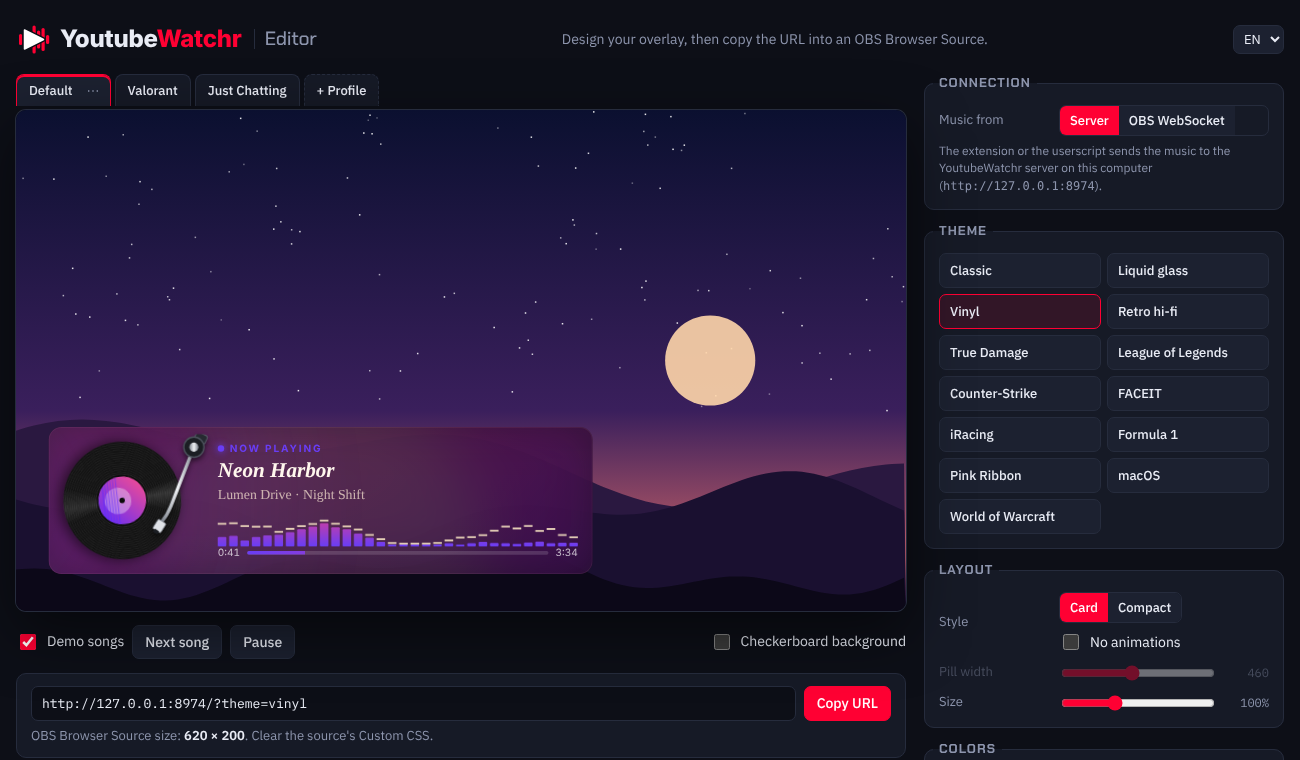
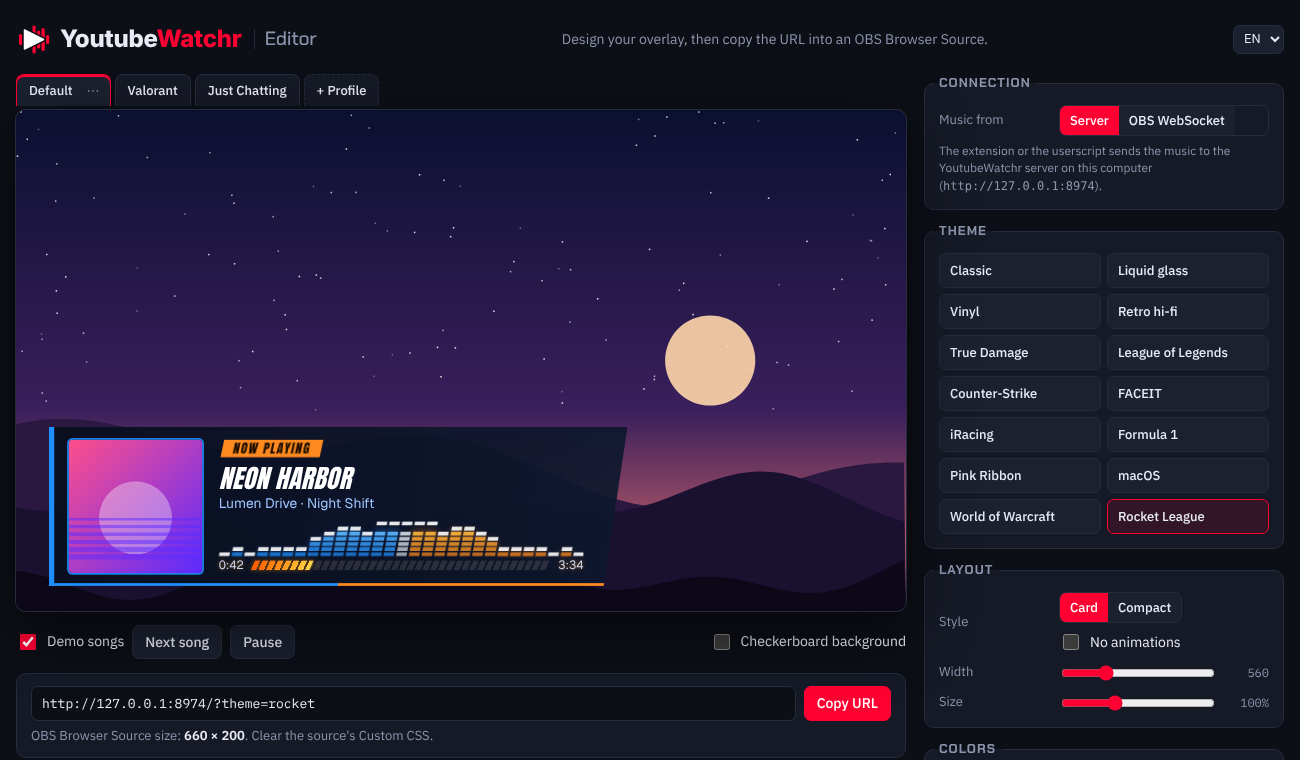
Big card width, no shadow without card, cover shrinks back; new README media
- width now also sets the big card (default 560, FACEIT 420); the editor's
  width slider works for both versions and remembers each value
- card=0: no soft shadow under the cover or the record (it sat as a grey
  smudge on the stream); theme frames and rings stay
- the grown cover shrinks back when the text gets shorter again (watch the
  text elements and font loads, not just #info)
- editor: OBS width for Rocket League is 660 (its slanted end was cut off)
- README: options updated; new themes.gif (all 14 themes, 2.3 MB instead of
  9.4 MB), editor.png and compact.png with the built-in demo song

diff --git a/editor.html b/editor.html
@@ -239,7 +239,7 @@
             <label class="check" style="white-space: nowrap"><input type="checkbox" id="still"> <span data-i18n="still">No animations</span></label>
           </div>
         </div>
-        <div class="row" id="width-row"><span data-i18n="pillWidth">Pill width</span>
+        <div class="row" id="width-row"><span data-i18n="pillWidth">Width</span>
           <div class="inline"><input type="range" id="width" min="260" max="700" step="10" value="460"><output id="width-out">460</output></div>
         </div>
         <div class="row"><span data-i18n="size">Size</span>
@@ -341,7 +341,7 @@ const T = {
     localNote: 'The extension or the userscript sends the music to the YoutubeWatchr server on this computer (<code>http://127.0.0.1:8974</code>).',
     obsPort: 'OBS port', obsPortAria: 'OBS WebSocket port', password: 'Password', obsPwAria: 'OBS WebSocket password', pwPh: 'Empty if authentication is off',
     obsNote: 'No server: the extension sends the music straight to OBS. Use the same port and password as in the extension. In OBS: Tools → WebSocket Server Settings.',
-    theme: 'Theme', layout: 'Layout', style: 'Style', card: 'Card', compact: 'Compact', still: 'No animations', pillWidth: 'Pill width', size: 'Size',
+    theme: 'Theme', layout: 'Layout', style: 'Style', card: 'Card', compact: 'Compact', still: 'No animations', pillWidth: 'Width', size: 'Size',
     colors: 'Colors', accent: 'Accent', accentAria: 'Accent source', fromCover: 'From cover', custom: 'Custom',
     brandNote: 'This theme uses its own colors unless you pick custom ones.',
     mainColor: 'Main color', secondColor: 'Second color', titleColor: 'Title color', background: 'Background', showCard: 'Show card',
@@ -483,7 +483,7 @@ const THEMES = [
 ];
 const BRAND_THEMES = ['lol', 'cs', 'faceit', 'truedamage', 'iracing', 'f1', 'pinkribbon', 'wow', 'rocket'];
 const DEFAULTS = {
-  theme: 'classic', compact: false, still: false, width: 460, scale: 1,
+  theme: 'classic', compact: false, still: false, width: 460, cardWidth: 0, scale: 1, // cardWidth 0 = the theme's own width
   accentMode: 'auto', accent: '#ff3d6e', accent2: '#ffb000',
   textOn: false, text: '#ffffff', card: true, bgOn: false, bg: '#101218', bgAlpha: .8, radiusOn: false, radius: 14,
   showLabel: true, label: 'Now Playing', font: '', album: true, cover: true,
@@ -543,6 +543,7 @@ function params(forObs, s = state) {
   const h = v => v.replace('#', '');
   if (s.theme !== 'classic') p.set('theme', s.theme);
   if (s.compact) { p.set('compact', '1'); if (s.width !== 460) p.set('width', s.width); }
+  else if (s.cardWidth) p.set('width', s.cardWidth);
   if (s.still) p.set('still', '1');
   if (s.scale !== 1) p.set('scale', s.scale);
   if (s.accentMode === 'custom') { p.set('accent', h(s.accent)); p.set('accent2', h(s.accent2)); }
@@ -571,8 +572,12 @@ function params(forObs, s = state) {
   return str ? '?' + str : '';
 }
 
+// The big card's own width in each theme (overlay.html)
+const bigWidth = (s = state) => s.theme === 'faceit' ? 420 : 560;
+
 function obsSize() {
-  const w = state.compact ? state.width + 40 : state.theme === 'faceit' ? 460 : 620;
+  // card width + its side padding + the page margin (Rocket League has wider padding for its slanted end)
+  const w = state.compact ? state.width + 40 : (state.cardWidth || bigWidth()) + ({ faceit: 40, rocket: 100 }[state.theme] || 60);
   const h = state.compact ? 90 : 200;
   return [Math.ceil(w * state.scale), Math.ceil(h * state.scale)];
 }
@@ -644,7 +649,9 @@ const checks = ['still', 'textOn', 'card', 'bgOn', 'radiusOn', 'showLabel', 'alb
 checks.forEach(id => $(id).onchange = e => { state[id] = e.target.checked; render(); });
 ['accent', 'accent2', 'text', 'bg'].forEach(id => $(id).oninput = e => { state[id] = e.target.value; render(); });
 $('accent').addEventListener('input', () => { state.accentMode = 'custom'; });
-['width', 'scale', 'bgAlpha', 'radius', 'bars'].forEach(id => $(id).oninput = e => { state[id] = +e.target.value; render(); });
+['scale', 'bgAlpha', 'radius', 'bars'].forEach(id => $(id).oninput = e => { state[id] = +e.target.value; render(); });
+// One width slider for both versions; each remembers its own value
+$('width').oninput = e => { state[state.compact ? 'width' : 'cardWidth'] = +e.target.value; render(); };
 $('label').oninput = e => { state.label = e.target.value; render(); };
 $('font').onchange = e => { state.font = e.target.value; render(); };
 
@@ -663,15 +670,17 @@ function syncControls() {
   $('css-hint').innerHTML = t(s.conn === 'obs' && !SERVED ? 'hintObs' : 'hintCss');
   checks.forEach(id => { $(id).checked = s[id]; });
   ['accent', 'accent2', 'text', 'bg'].forEach(id => { if ($(id).value !== s[id]) $(id).value = s[id]; });
-  ['width', 'scale', 'bgAlpha', 'radius', 'bars'].forEach(id => { $(id).value = s[id]; });
+  ['scale', 'bgAlpha', 'radius', 'bars'].forEach(id => { $(id).value = s[id]; });
+  const wv = s.compact ? s.width : s.cardWidth || bigWidth(s);
+  Object.assign($('width'), s.compact ? { min: 260, max: 700 } : { min: 400, max: 1000 });
+  $('width').value = wv;
   if ($('label').value !== s.label) $('label').value = s.label;
   $('font').value = s.font;
-  $('width-out').textContent = s.width;
+  $('width-out').textContent = wv;
   $('scale-out').textContent = Math.round(s.scale * 100) + '%';
   $('bgAlpha-out').textContent = Math.round(s.bgAlpha * 100) + '%';
   $('radius-out').textContent = s.radius + 'px';
   $('bars-out').textContent = s.bars;
-  $('width-row').classList.toggle('disabled', !s.compact);
   $('accent-row').classList.toggle('disabled', s.accentMode !== 'custom');
   $('brand-note').hidden = !(BRAND_THEMES.includes(s.theme) && s.accentMode === 'auto');
   $('bg-row').classList.toggle('disabled', !s.card);

diff --git a/overlay.html b/overlay.html
@@ -27,7 +27,7 @@
     position: relative;
     display: flex;
     gap: 18px;
-    width: 560px;
+    width: var(--bw, 560px);
     padding: 16px;
     border-radius: 18px;
     background: var(--card);
@@ -353,7 +353,7 @@
      #14161a at 85%, 12px radius, Geist. */
   body.faceit { font-family: "Geist", "Segoe UI", system-ui, sans-serif; --bar-round: 4; --cap: rgba(255,255,255,0); --frost: 0; }
   body.faceit #card {
-    display: grid; width: 420px; box-sizing: border-box; padding: 16px;
+    display: grid; width: var(--bw, 420px); box-sizing: border-box; padding: 16px;
     grid-template-columns: 56px minmax(0, 1fr) 124px; grid-template-rows: 26px 30px auto;
     column-gap: 14px; row-gap: 0;
     border-radius: 12px; background: rgba(20,22,26,.85); box-shadow: none;
@@ -638,7 +638,7 @@
   body.rocket { font-family: "Geist", "Segoe UI", system-ui, sans-serif; --frost: 0; --bar-round: 1; --bar-glow: 0;
     --bar1: #1f8fff; --bar2: #ff8a1f; --cap: rgba(255,255,255,.75); font-variant-numeric: tabular-nums; }
   body.rocket #glow { display: none; }
-  body.rocket #card { width: 560px; border-radius: 0; gap: 18px; padding: 14px 48px 14px 22px;
+  body.rocket #card { width: var(--bw, 560px); border-radius: 0; gap: 18px; padding: 14px 48px 14px 22px;
     background: linear-gradient(100deg, rgba(8,15,30,.95), rgba(13,24,46,.9));
     clip-path: polygon(0 0, 100% 0, calc(100% - 26px) 100%, 0 100%); box-shadow: none; }
   body.rocket #card::before { content: ""; position: absolute; left: 0; top: 0; bottom: 0; width: 6px; background: #1f8fff; }
@@ -722,6 +722,12 @@
   body.no-card #card::before, body.no-card #card::after,
   body.no-card #info::after, body.no-card #frost, body.no-card #glow { display: none; }
   body.no-card #info { background: transparent; box-shadow: none; }
+  /* The soft shadow under the cover (and the record) gives depth on the card; without the
+     card it sat as a grey smudge on the stream. Theme frames and rings stay. */
+  body.no-card:not(.retro):not(.lol):not(.cs):not(.faceit):not(.wow):not(.rocket) #art-wrap { box-shadow: none; }
+  body.no-card.glass #art-wrap { box-shadow: 0 0 0 .5px rgba(255,255,255,.35); }
+  body.no-card.iracing #art-wrap { box-shadow: 0 0 0 1px rgba(255,255,255,.18); }
+  body.no-card.vinyl:not(.truedamage) #vinyl { box-shadow: none; }
   body.no-card #title, body.no-card #artist, body.no-card #label, body.no-card #progress {
     text-shadow: 0 1px 3px rgba(0,0,0,.8), 0 0 12px rgba(0,0,0,.5);
   }
@@ -776,7 +782,7 @@ const opt = {
   card: q.get('card') !== '0',        // card=0: no background, just content
   progress: q.get('progress') !== '0',
   scale: Math.min(3, Math.max(.3, +q.get('scale') || 1)), // overall size, 1 = default
-  width: +q.get('width') || 0,         // compact pill width in px (default 460)
+  width: +q.get('width') || 0,         // card width in px: compact pill (default 460) or big card (default 560, FACEIT 420)
   server: q.get('server') || '',      // only needed if the overlay is opened as a local file
   obs: q.get('obs') === '1',          // get the music from the browser extension through OBS WebSocket
   port: +q.get('port') || 4455,       // OBS WebSocket port
@@ -799,7 +805,7 @@ document.body.classList.toggle('hide-paused', opt.hidePaused);
 document.body.classList.toggle('no-card', !opt.card);
 document.body.classList.toggle('no-progress', !opt.progress);
 if (opt.scale !== 1) { document.body.style.transformOrigin = '0 0'; document.body.style.transform = `scale(${opt.scale})`; }
-if (opt.width) document.body.style.setProperty('--cw', Math.max(240, opt.width) + 'px');
+if (opt.width) document.body.style.setProperty(opt.compact ? '--cw' : '--bw', Math.max(opt.compact ? 240 : 360, opt.width) + 'px');
 if (BRAND && !opt.accent) setAccent(...BRAND);
 const hex = v => '#' + String(v).replace('#', '');
 function rgba(h, a) {
@@ -1059,10 +1065,13 @@ function fitCover() {
   if (want > art.offsetHeight + .5) art.style.width = art.style.height = want + 'px';
 }
 let fitQueued = 0;
-new ResizeObserver(() => {
-  if (fitQueued) return;
-  fitQueued = requestAnimationFrame(() => { fitQueued = 0; fitCover(); });
-}).observe($('info'));
+const queueFit = () => { if (!fitQueued) fitQueued = requestAnimationFrame(() => { fitQueued = 0; fitCover(); }); };
+// Watch the text itself, not #info: once the cover has grown, #info is as tall as the
+// cover, so it wouldn't notice the text getting shorter again (e.g. after a font loads).
+const fitWatch = new ResizeObserver(queueFit);
+['label', 'title', 'artist', 'progress'].forEach(id => $(id) && fitWatch.observe($(id)));
+fitWatch.observe($('info'));
+document.fonts?.addEventListener('loadingdone', queueFit);
 
 // True Damage: bars up to the playhead glow magenta to cyan, the rest stay
 // dim, over a red-to-gold progress line with a round marker.

diff --git a/README.md b/README.md
@@ -61,7 +61,7 @@ You need a server with **[Docker](https://docs.docker.com/engine/install/)** (or
    - **Firefox:** open `about:debugging#/runtime/this-firefox`, click **Load Temporary Add-on** and pick `extension/manifest.json`. Firefox removes it again when it closes.
 
 5. **Connect the extension.** Click the YoutubeWatchr icon in the browser toolbar, choose **Server** and copy the **Server address** and the **Extension key** from the editor (under **Connection**) into it.
-6. **Add it to OBS.** In the editor, click **Copy URL** (it looks like `https://ytw.example.com/overlay/AbC123…`). In OBS click **+** under Sources, choose **Browser**, paste the URL, set the width and height the editor shows (`620` × `200` by default) and delete the text in **Custom CSS**.
+6. **Add it to OBS.** In the editor, click **Copy URL** (it looks like `https://ytw.example.com/overlay/AbC123…`). In OBS click **+** under Sources, choose **Browser**, paste the URL, set the width and height the editor shows (`620` × `200` for most themes) and delete the text in **Custom CSS**.
 7. **Play music.** Open [music.youtube.com](https://music.youtube.com) (reload it if it was already open), start a song and **click once anywhere on the page**. The extension shows **Connected to the server** and the editor shows **Music is coming in**.
 
 The click is needed because browsers only allow reading the audio after you interact with the page. Until then the equalizer plays a made-up animation.
@@ -100,7 +100,7 @@ You need **[Node.js](https://nodejs.org)** (version 18 or newer).
 
      > Chrome only: open the Tampermonkey extension details (`chrome://extensions`) and turn on **Allow User Scripts**, otherwise the script won't run.
 
-3. **Add it to OBS.** Click **+** under Sources and choose **Browser**. URL: `http://127.0.0.1:8974/`, width `620`, height `200`. Delete the text in **Custom CSS**.
+3. **Add it to OBS.** Click **+** under Sources and choose **Browser**. URL: `http://127.0.0.1:8974/`, width `620` (`660` for `rocket`), height `200`. Delete the text in **Custom CSS**.
 4. **Play music** as in step 7 above.
 
 ## Customize it
@@ -133,6 +133,8 @@ Every theme also has a **compact** version, a slim one-line bar where the progre
 
 Most themes take their colors from the album cover. The game, racing and `pinkribbon` themes use their own colors, so their card looks the same with every cover. `pinkribbon` is a light pink card with the pink ribbon of breast cancer awareness. In `iracing` the equalizer looks like the shift lights of a sim-racing wheel: green, yellow, red and blue LEDs. `macos` is a dark macOS window with the three window buttons in the title bar. `wow` is a dark card with a yellow ring around the cover and a yellow progress bar. `rocket` looks like a Rocket League HUD: the equalizer is split into the two teams, blue on the left and orange on the right with a grey bar in the middle, and the progress fills up like the boost meter. In the compact version the boost meter runs around the cover.
 
+The cover is always square. If the text next to it runs taller, as with some theme fonts, the cover grows with it.
+
 ## All options
 
 The editor writes these for you. If you prefer, add them to the OBS URL yourself, starting with `?` and joined with `&`, for example `http://127.0.0.1:8974/?theme=vinyl&compact=1`. On the online server, options in the URL replace the ones saved in the editor.
@@ -143,9 +145,9 @@ The editor writes these for you. If you prefer, add them to the OBS URL yourself
 |---|---|---|
 | `theme` | `?theme=vinyl` | `classic` (default), `glass`, `vinyl`, `retro`, `truedamage`, `lol`, `cs`, `faceit`, `iracing`, `f1`, `pinkribbon`, `macos`, `wow` or `rocket` |
 | `compact` | `?compact=1` | Slim one-line version |
-| `width` | `?compact=1&width=380` | Width of the compact bar in pixels (default 460). Long names scroll inside |
+| `width` | `?width=700` | Width of the card in pixels: the big card (default 560, `faceit` 420) or, with `compact=1`, the compact bar (default 460). Long names scroll inside. Make the OBS width bigger by the same amount |
 | `scale` | `?scale=1.5` | Make everything bigger or smaller (0.3 to 3). Multiply the OBS width and height by the same number |
-| `card` | `?card=0` | No background, just the content |
+| `card` | `?card=0` | No background and no shadow, just the content. Frames around the cover stay |
 | `still` | `?still=1` | No animations: no equalizer, no scrolling text, no spinning record |
 
 **Colors and text**
@@ -165,7 +167,7 @@ The editor writes these for you. If you prefer, add them to the OBS URL yourself
 
 | Option | Example | What it does |
 |---|---|---|
-| `album`, `cover`, `eq`, `progress` | `?album=0` | Set to `0` to hide the album name, cover, equalizer or progress bar |
+| `album`, `cover`, `eq`, `progress` | `?album=0` | Set to `0` to hide the album name, cover, equalizer or progress bar. Each one on its own: without the cover the equalizer stays as tall as before |
 | `bars` | `?bars=24` | Number of equalizer bars (default 32) |
 | `hidePaused` | `?hidePaused=1` | Hide the overlay while the music is paused |
 | `demo` | `?demo=1` | Show demo songs instead of your music, for testing |
